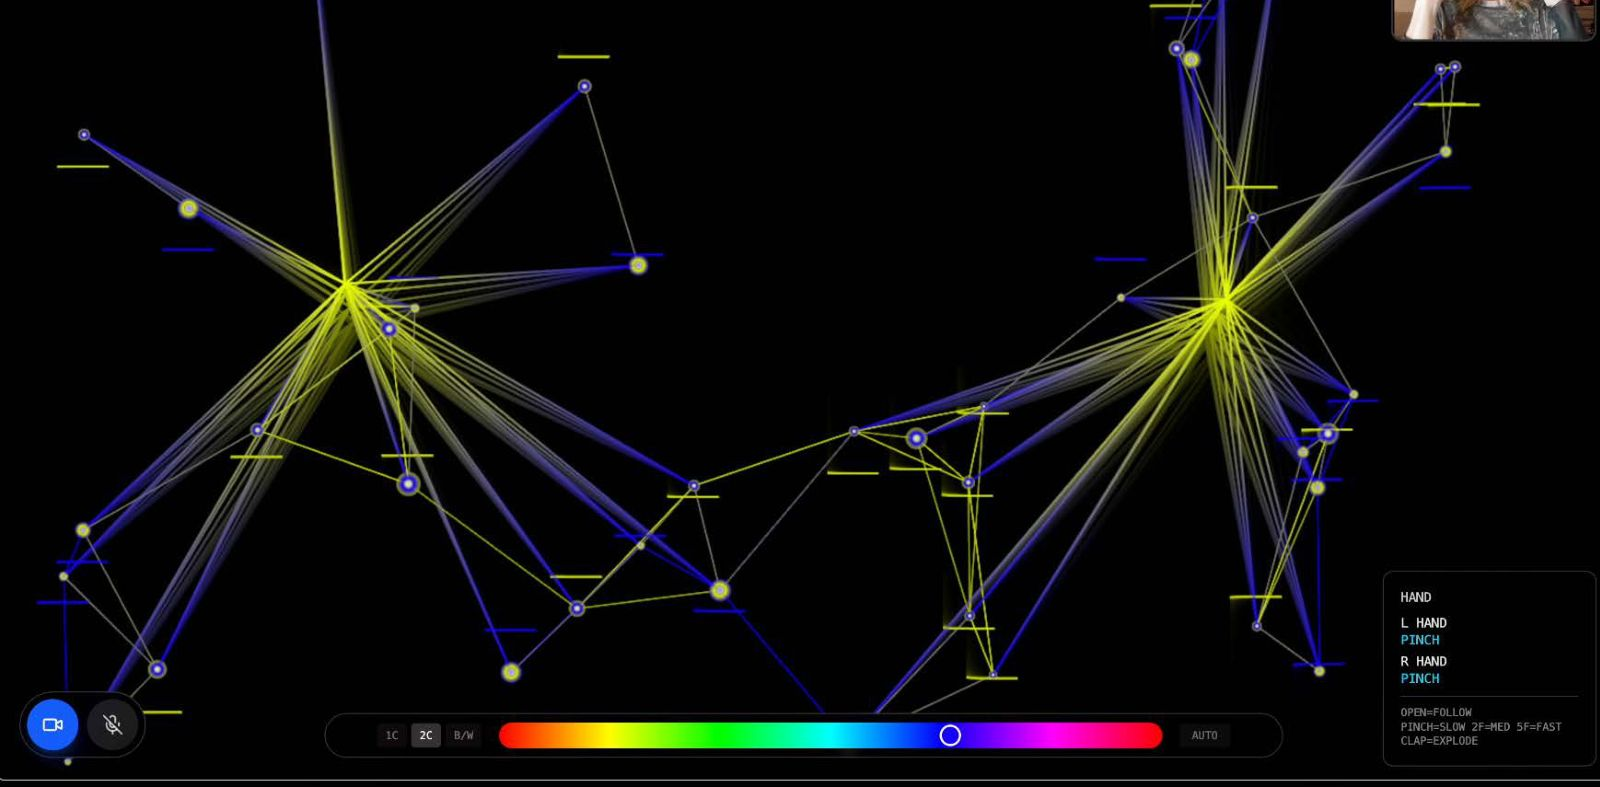
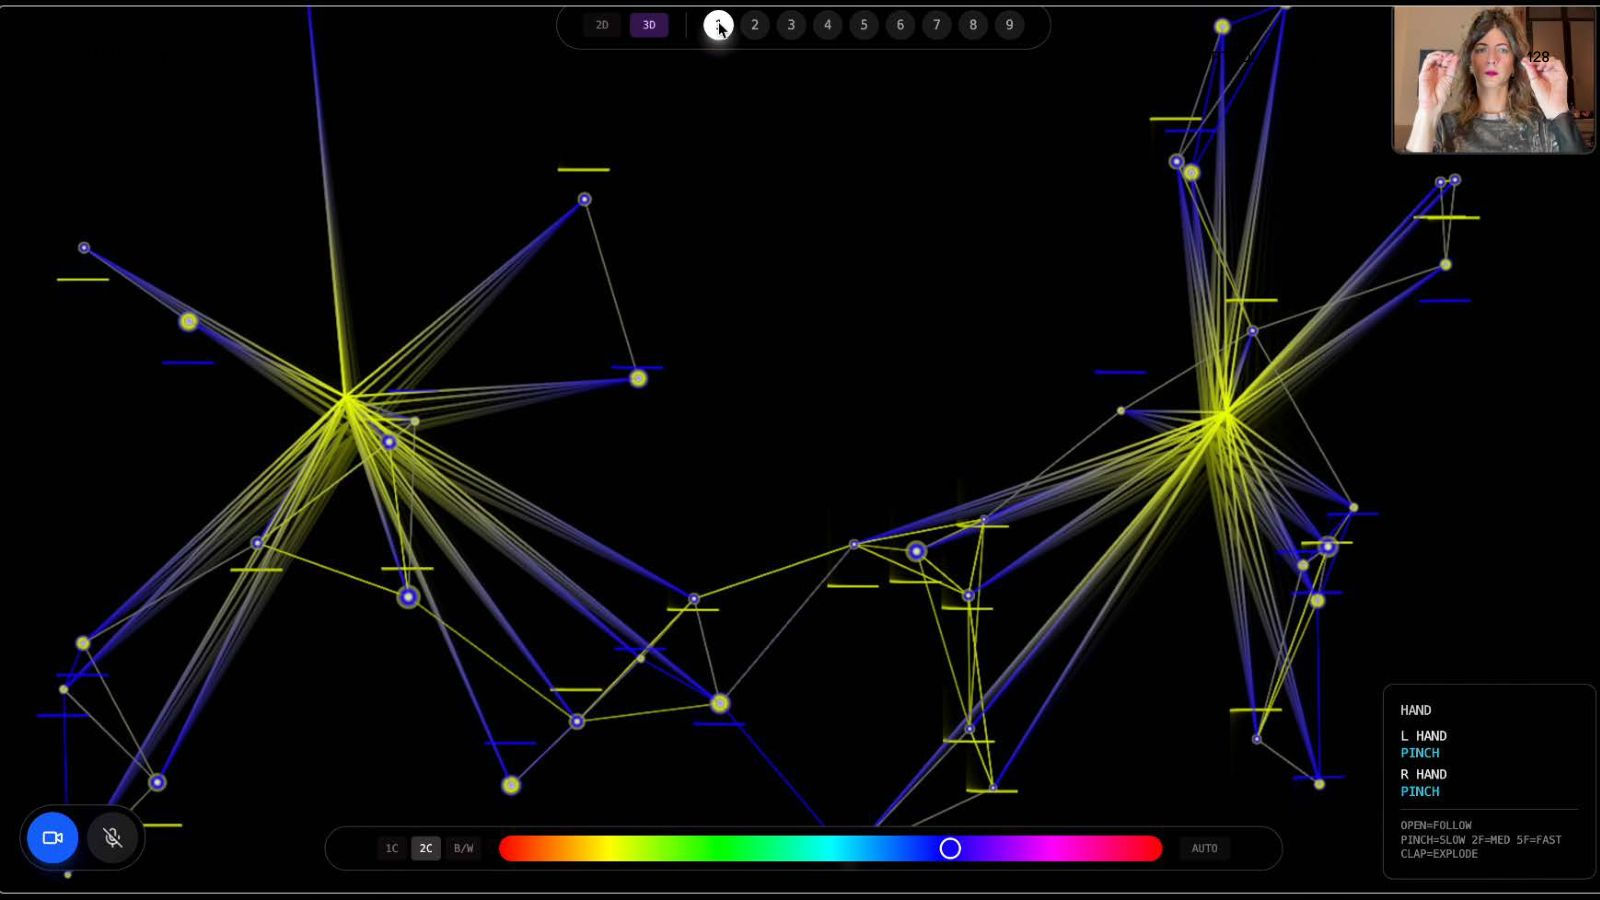
CV workplaces can link out; VJ images uncropped
- Experience rows accept an optional link (admin: "period | role | place |
  emoji | link"); the site shows the place as a link with ↗
- Re-extracted the VJ Tool slides without cropping the top strip, so the
  camera inset stays visible

Claude-Session: https://claude.ai/code/session_01ELT8fVF81R9fZEMeKwGnqh

Changed region(s): [[0.0, 0.0, 1.0, 1.0], [0.3438, 0.0, 0.6562, 0.061], [0.3438, 0.061, 0.375, 0.1525]]

diff --git a/js/admin.js b/js/admin.js
@@ -494,7 +494,7 @@
         <button class="addbtn" id="addcap" style="margin-top:10px">+ Add capability</button></div>
 
       <div class="section"><h2>CV — one entry per line, fields separated by “ | ”</h2>
-        <div><label>Professional Experience — period | role | place | emoji</label><textarea data-sbind-cv="experience" data-fields="period|role|place|emoji" style="min-height:150px">${esc(cvLines(cv.experience, ["period", "role", "place", "emoji"]))}</textarea></div>
+        <div><label>Professional Experience — period | role | place | emoji | link (optional)</label><textarea data-sbind-cv="experience" data-fields="period|role|place|emoji|url" style="min-height:150px">${esc(cvLines(cv.experience, ["period", "role", "place", "emoji", "url"]))}</textarea></div>
         <div style="margin-top:14px"><label>International Experience — period | role | place | emoji</label><textarea data-sbind-cv="international" data-fields="period|role|place|emoji" style="min-height:150px">${esc(cvLines(cv.international, ["period", "role", "place", "emoji"]))}</textarea></div>
         <div style="margin-top:14px"><label>Awards & Nominations — year | title | emoji</label><textarea data-sbind-cv="awards" data-fields="year|title|emoji" style="min-height:150px">${esc(cvLines(cv.awards, ["year", "title", "emoji"]))}</textarea></div>
         <div style="margin-top:14px"><label>Lectures, Workshops & Exhibitions — year | title | kind | emoji</label><textarea data-sbind-cv="lectures" data-fields="year|title|kind|emoji" style="min-height:150px">${esc(cvLines(cv.lectures, ["year", "title", "kind", "emoji"]))}</textarea></div>

diff --git a/js/main.js b/js/main.js
@@ -148,7 +148,8 @@
     if (!$("#cvGrid")) return;
     const cv = data.cv, rows = (a, f) => a.map(f).join("");
     const pop = (em) => (em ? ` <span class="cv-pop" style="animation-delay:${(Math.random() * 7).toFixed(1)}s">${em}</span>` : "");
-    const expRow = (e) => `<div class="cv-row"><span class="p">${esc(e.period)}</span><span class="r">${esc(e.role)}${pop(e.emoji)}<small>${esc(e.place)}</small></span></div>`;
+    const place = (e) => (e.url && /^https?:\/\//i.test(e.url) ? `<a href="${esc(e.url)}" target="_blank" rel="noopener" data-cursor="">${esc(e.place)} ↗</a>` : esc(e.place));
+    const expRow = (e) => `<div class="cv-row"><span class="p">${esc(e.period)}</span><span class="r">${esc(e.role)}${pop(e.emoji)}<small>${place(e)}</small></span></div>`;
     const blk = (t, items, f) => `<div class="cv-block"><h3>${t}</h3>${rows(items, f)}</div>`;
     // collapsible block — closed by default; large + that becomes × when open
     const col = (t, items, f) => `<details class="cv-block cv-collapse"><summary><h3>${t}</h3><span class="cv-x"></span></summary><div class="cv-body">${rows(items, f)}</div></details>`;

diff --git a/css/style.css b/css/style.css
@@ -341,6 +341,8 @@ em { font-style: normal; color: var(--ink-2); }
 .cv-row .p { color: var(--ink-2); font-size: 0.85rem; font-variant-numeric: tabular-nums; }
 .cv-row .r { font-size: 1rem; }
 .cv-row .r small { display: block; color: var(--ink-2); font-size: 0.86rem; margin-top: 2px; }
+.cv-row .r small a { color: inherit; text-decoration: underline; text-decoration-color: var(--line); text-underline-offset: 3px; transition: color .2s; }
+.cv-row .r small a:hover { color: var(--ink); text-decoration-color: currentColor; }
 .cv-tags { display: flex; flex-wrap: wrap; gap: 8px; }
 .cv-tags span { font-size: 0.85rem; padding: 7px 14px; border: 1px solid var(--line); border-radius: 100px; color: var(--ink-2); }
 .cv-block .cv-tags + .cv-tags { margin-top: 10px; }   /* clustered groups */
